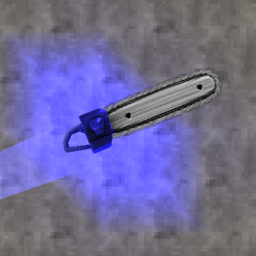
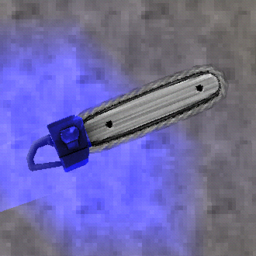
Add files via upload

diff --git a/CHANGELOG.md b/CHANGELOG.md
@@ -1,30 +1,32 @@
 1.0.0
-
-\---
+---
 
 Initial release
 
 
 
 1.0.1
-
-\---
+---
 
 Updated README to be more specific
 
 
 
 1.0.2
-
-\---
+---
 
 Added changelog
 
-
-
 Updated icon
 
-
-
 Another slight update to README to fit with the formatting of my other mods.
+
+
+
+1.0.3
+---
+
+Updated icon again
+
+Fixed changelog text formatting
 